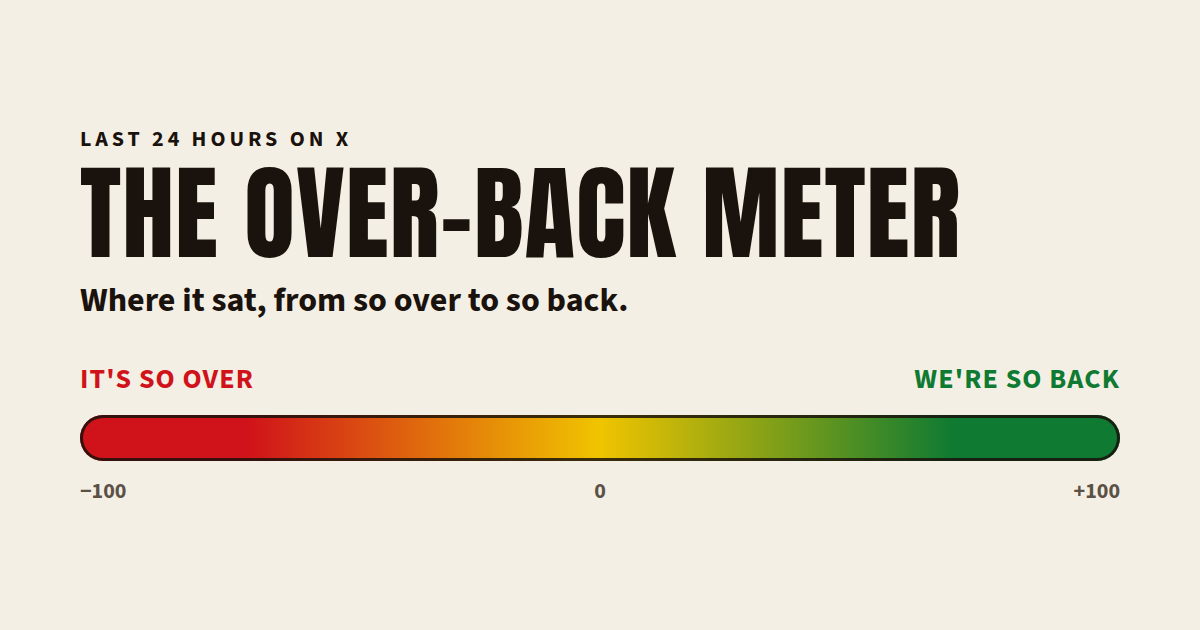
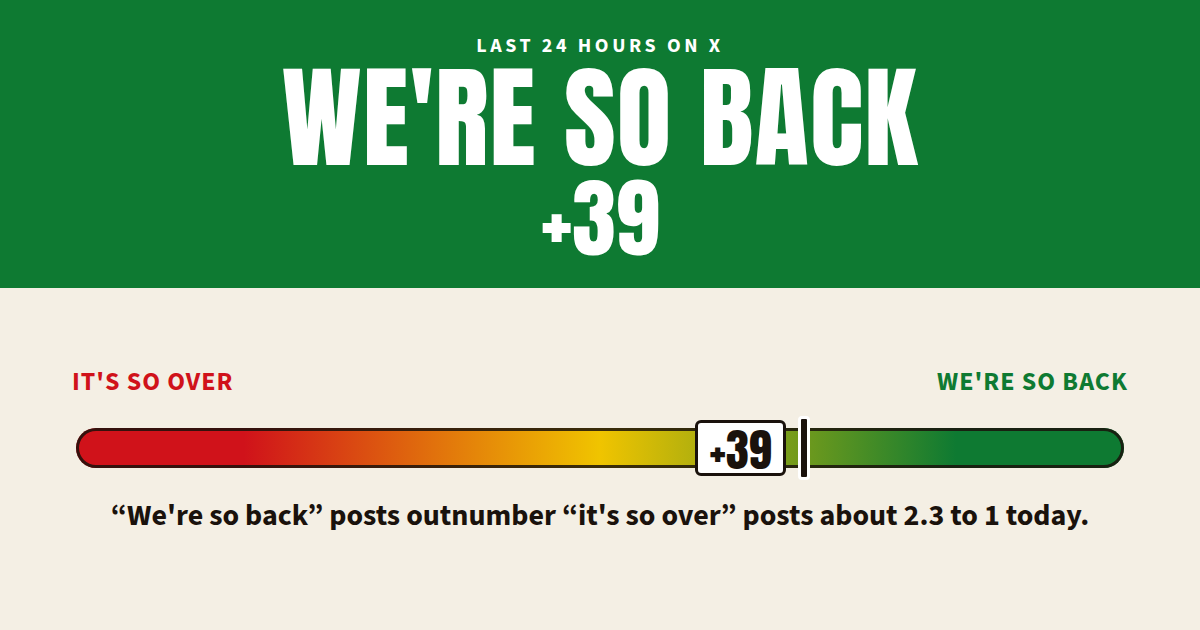
Show the day's score on the social preview
Link crawlers do not run the page, so the verdict and score are drawn into og.png and the Open Graph title. npm run preview refreshes both from the newest day in data.json.

diff --git a/scripts/preview.js b/scripts/preview.js
@@ -1,0 +1,200 @@
+/**
+ * Write the social preview from the newest day in data.json.
+ * Link crawlers do not run the page, so the score has to live in the
+ * tags and in og.png. Run this after appending a day.
+ */
+
+import { spawn } from "node:child_process";
+import { readFile, writeFile } from "node:fs/promises";
+import { tmpdir } from "node:os";
+import path from "node:path";
+import { fileURLToPath } from "node:url";
+import { formatScore, markerPercent, sentenceFor, verdictFor } from "./meter.js";
+
+const root = path.resolve(path.dirname(fileURLToPath(import.meta.url)), "..");
+const SITE = "https://timjonez.github.io/over-back-meter/";
+const IMAGE = `${SITE}og.png`;
+const START = "<!-- social-preview -->";
+const END = "<!-- /social-preview -->";
+
+const TONES = {
+  over: { bg: "#d0121a", fg: "#ffffff", theme: "#d0121a" },
+  back: { bg: "#0e7a32", fg: "#ffffff", theme: "#0e7a32" },
+  mid: { bg: "#f0c400", fg: "#1a120c", theme: "#f0c400" },
+};
+
+export function latestDay(data) {
+  if (!Array.isArray(data?.days) || data.days.length === 0) {
+    throw new Error("data.json has no days.");
+  }
+  return data.days.reduce((newest, day) => (day.date > newest.date ? day : newest));
+}
+
+export function previewCopy(day) {
+  const verdict = verdictFor(day.score);
+  const score = formatScore(day.score);
+  const title = `${verdict.label} (${score})`;
+  const description =
+    Number.isInteger(day.over) && Number.isInteger(day.back)
+      ? sentenceFor(day.back, day.over)
+      : "Exact phrase counts were not recorded for this day.";
+  return {
+    verdict,
+    score,
+    title,
+    description,
+    alt: `${verdict.label}, ${score}. ${description}`,
+    percent: markerPercent(day.score),
+    tone: TONES[verdict.tone],
+  };
+}
+
+export function socialBlock(copy) {
+  const title = esc(copy.title);
+  const description = esc(copy.description);
+  const alt = esc(copy.alt);
+  return `${START}
+  <meta name="theme-color" content="${copy.tone.theme}">
+  <meta property="og:type" content="website">
+  <meta property="og:site_name" content="The Over–Back Meter">
+  <meta property="og:locale" content="en_US">
+  <meta property="og:url" content="${SITE}">
+  <meta property="og:title" content="${title}">
+  <meta property="og:description" content="${description}">
+  <meta property="og:image" content="${IMAGE}">
+  <meta property="og:image:type" content="image/png">
+  <meta property="og:image:width" content="1200">
+  <meta property="og:image:height" content="630">
+  <meta property="og:image:alt" content="${alt}">
+  <meta name="twitter:card" content="summary_large_image">
+  <meta name="twitter:title" content="${title}">
+  <meta name="twitter:description" content="${description}">
+  <meta name="twitter:image" content="${IMAGE}">
+  <meta name="twitter:image:alt" content="${alt}">
+  ${END}`;
+}
+
+export function applySocialBlock(html, copy) {
+  const block = socialBlock(copy);
+  if (html.includes(START) && html.includes(END)) {
+    return html.replace(new RegExp(`${START}[\\s\\S]*?${END}`), block);
+  }
+  const canonical = `<link rel="canonical" href="${SITE}">`;
+  if (!html.includes(canonical)) {
+    throw new Error("index.html has no social-preview markers and no canonical link.");
+  }
+  return html.replace(canonical, `${canonical}\n  ${block}`);
+}
+
+function cardHtml(copy) {
+  const flip = copy.percent >= 50 ? " flip" : "";
+  return `<!DOCTYPE html>
+<html lang="en">
+<head>
+  <meta charset="utf-8">
+  <link rel="preconnect" href="https://fonts.googleapis.com">
+  <link rel="preconnect" href="https://fonts.gstatic.com" crossorigin>
+  <link href="https://fonts.googleapis.com/css2?family=Anton&family=Source+Sans+3:wght@600;700&display=swap" rel="stylesheet">
+  <style>
+    html, body { margin: 0; width: 1200px; height: 630px; overflow: hidden; background: #f4efe4; color: #1a120c; }
+    body { display: flex; flex-direction: column; font-family: "Source Sans 3", "Segoe UI", sans-serif; }
+    header { background: ${copy.tone.bg}; color: ${copy.tone.fg}; text-align: center; padding: 32px 48px 26px; }
+    .kicker { margin: 0; font-size: 20px; font-weight: 700; letter-spacing: 0.18em; text-transform: uppercase; }
+    h1 { margin: 10px 0 0; font-family: Anton, Impact, "Arial Black", sans-serif; font-size: 112px; font-weight: 400; line-height: 0.86; letter-spacing: 0.01em; }
+    .score { margin: 8px 0 0; font-family: Anton, Impact, "Arial Black", sans-serif; font-size: 88px; line-height: 1; }
+    .meter { flex: 1; display: flex; flex-direction: column; justify-content: center; padding: 8px 72px 28px; }
+    .ends { display: flex; justify-content: space-between; font-size: 26px; font-weight: 800; letter-spacing: 0.04em; }
+    .over { color: #d0121a; }
+    .back { color: #0e7a32; }
+    .track { position: relative; height: 40px; margin: 28px 4px 0; border-radius: 999px; background: linear-gradient(90deg, #d0121a 0%, #d0121a 16%, #f0c400 50%, #0e7a32 84%, #0e7a32 100%); box-shadow: inset 0 0 0 3px rgba(26, 18, 12, 0.85); }
+    .marker { position: absolute; top: 50%; left: ${copy.percent}%; width: 0; height: 0; }
+    .stem { position: absolute; width: 12px; height: 64px; background: #1a120c; border: 3px solid #fff; border-radius: 4px; transform: translate(-50%, -50%); box-sizing: border-box; }
+    .chip { position: absolute; top: 0; transform: translateY(-50%); background: #fff; color: #1a120c; border: 3px solid #1a120c; border-radius: 6px; font-family: Anton, Impact, sans-serif; font-size: 46px; line-height: 1; padding: 4px 12px 0; white-space: nowrap; }
+    .marker.flip .chip { right: 18px; }
+    .marker:not(.flip) .chip { left: 18px; }
+    .sentence { margin: 28px 0 0; text-align: center; font-size: 30px; font-weight: 700; line-height: 1.3; }
+  </style>
+</head>
+<body>
+  <header>
+    <p class="kicker">Last 24 hours on X</p>
+    <h1>${esc(copy.verdict.label)}</h1>
+    <p class="score">${esc(copy.score)}</p>
+  </header>
+  <section class="meter">
+    <div class="ends"><span class="over">IT'S SO OVER</span><span class="back">WE'RE SO BACK</span></div>
+    <div class="track"><div class="marker${flip}"><span class="stem"></span><span class="chip">${esc(copy.score)}</span></div></div>
+    <p class="sentence">${esc(copy.description)}</p>
+  </section>
+</body>
+</html>`;
+}
+
+function esc(value) {
+  return String(value)
+    .replaceAll("&", "&amp;")
+    .replaceAll("<", "&lt;")
+    .replaceAll(">", "&gt;")
+    .replaceAll('"', "&quot;");
+}
+
+async function writePreview() {
+  const data = JSON.parse(await readFile(path.join(root, "data.json"), "utf8"));
+  const copy = previewCopy(latestDay(data));
+  const indexPath = path.join(root, "index.html");
+  const html = await readFile(indexPath, "utf8");
+  await writeFile(indexPath, applySocialBlock(html, copy));
+
+  const cardPath = path.join(tmpdir(), "over-back-og.html");
+  const imagePath = path.join(root, "og.png");
+  await writeFile(cardPath, cardHtml(copy));
+  const chrome = process.env.CHROME_PATH || "google-chrome";
+  await run(chrome, [
+    "--headless=new",
+    "--disable-gpu",
+    "--no-sandbox",
+    "--disable-dev-shm-usage",
+    "--force-device-scale-factor=1",
+    "--hide-scrollbars",
+    `--user-data-dir=${path.join(tmpdir(), "over-back-chrome")}`,
+    "--virtual-time-budget=12000",
+    "--timeout=15000",
+    "--window-size=1200,630",
+    `--screenshot=${imagePath}`,
+    `file://${cardPath}`,
+  ]);
+  const png = await readFile(imagePath);
+  const width = png.readUInt32BE(16);
+  const height = png.readUInt32BE(20);
+  if (png[0] !== 0x89 || width !== 1200 || height !== 630) {
+    throw new Error(`og.png should be a 1200x630 PNG, got ${width}x${height}.`);
+  }
+  console.log(`${copy.title}`);
+  console.log(copy.description);
+}
+
+function run(command, args) {
+  return new Promise((resolve, reject) => {
+    const child = spawn(command, args, { stdio: "ignore" });
+    const timer = setTimeout(() => {
+      child.kill("SIGKILL");
+      resolve();
+    }, 20000);
+    child.on("error", (error) => {
+      clearTimeout(timer);
+      reject(error);
+    });
+    child.on("exit", () => {
+      clearTimeout(timer);
+      resolve();
+    });
+  });
+}
+
+const isMain = process.argv[1] && path.resolve(process.argv[1]) === fileURLToPath(import.meta.url);
+if (isMain) {
+  writePreview().catch((error) => {
+    console.error(error.message);
+    process.exit(1);
+  });
+}

diff --git a/index.html b/index.html
@@ -4,25 +4,27 @@
   <meta charset="utf-8">
   <meta name="viewport" content="width=device-width, initial-scale=1">
   <meta name="description" content="Where X sat in the last 24 hours, from it's so over to we're so back.">
-  <meta name="theme-color" content="#1a120c">
   <meta http-equiv="Cache-Control" content="no-cache">
   <link rel="canonical" href="https://timjonez.github.io/over-back-meter/">
+  <!-- social-preview -->
+  <meta name="theme-color" content="#0e7a32">
   <meta property="og:type" content="website">
   <meta property="og:site_name" content="The Over–Back Meter">
   <meta property="og:locale" content="en_US">
   <meta property="og:url" content="https://timjonez.github.io/over-back-meter/">
-  <meta property="og:title" content="The Over–Back Meter">
-  <meta property="og:description" content="Where X sat in the last 24 hours, from it's so over to we're so back.">
+  <meta property="og:title" content="WE'RE SO BACK (+39)">
+  <meta property="og:description" content="“We're so back” posts outnumber “it's so over” posts about 2.3 to 1 today.">
   <meta property="og:image" content="https://timjonez.github.io/over-back-meter/og.png">
   <meta property="og:image:type" content="image/png">
   <meta property="og:image:width" content="1200">
   <meta property="og:image:height" content="630">
-  <meta property="og:image:alt" content="The Over–Back Meter: a bar from it's so over to we're so back.">
+  <meta property="og:image:alt" content="WE'RE SO BACK, +39. “We're so back” posts outnumber “it's so over” posts about 2.3 to 1 today.">
   <meta name="twitter:card" content="summary_large_image">
-  <meta name="twitter:title" content="The Over–Back Meter">
-  <meta name="twitter:description" content="Where X sat in the last 24 hours, from it's so over to we're so back.">
+  <meta name="twitter:title" content="WE'RE SO BACK (+39)">
+  <meta name="twitter:description" content="“We're so back” posts outnumber “it's so over” posts about 2.3 to 1 today.">
   <meta name="twitter:image" content="https://timjonez.github.io/over-back-meter/og.png">
-  <meta name="twitter:image:alt" content="The Over–Back Meter: a bar from it's so over to we're so back.">
+  <meta name="twitter:image:alt" content="WE'RE SO BACK, +39. “We're so back” posts outnumber “it's so over” posts about 2.3 to 1 today.">
+  <!-- /social-preview -->
   <title>The Over–Back Meter</title>
   <link rel="icon" href="favicon.svg" type="image/svg+xml">
   <link rel="preconnect" href="https://fonts.googleapis.com">

diff --git a/scripts/site.test.js b/scripts/site.test.js
@@ -19,7 +19,9 @@ test("the page is static and reads only data.json", async () => {
 
   assert.match(html, /IT'S SO OVER/);
   assert.match(html, /WE'RE SO BACK/);
-  assert.match(html, /property="og:title" content="The Over–Back Meter"/);
+  assert.match(html, /property="og:title" content="WE'RE SO BACK \(\+39\)"/);
+  assert.match(html, /property="og:description" content="“We're so back” posts outnumber “it's so over” posts about 2\.3 to 1 today\."/);
+  assert.match(html, /name="twitter:title" content="WE'RE SO BACK \(\+39\)"/);
   assert.match(html, /property="og:image" content="https:\/\/timjonez\.github\.io\/over-back-meter\/og\.png"/);
   assert.match(html, /property="og:image:width" content="1200"/);
   assert.match(html, /property="og:image:height" content="630"/);

diff --git a/README.md b/README.md
@@ -17,14 +17,21 @@ Turn on GitHub Pages once. Repo → Settings → Pages → Build and deployment 
 
 There is a `.nojekyll` file so Pages serves the files as they are. After the first build, the site is at [https://timjonez.github.io/over-back-meter/](https://timjonez.github.io/over-back-meter/).
 
-A pull request that only changes `data.json` updates the site when it merges to `master`. This repo does not call the X API, and it has no token and no scheduled workflow.
+A pull request that changes `data.json` updates the reading when it merges to `master`. Link previews do not run the page, so the share card is a snapshot of the newest score. Refresh it with the preview script before you open the pull request. This repo does not call the X API, and it has no token and no scheduled workflow.
 
 ## How to add a day
 
 1. Open `data.json`.
-2. Append one object to the end of `days`. Leave every older object alone. Do not edit `index.html`, `app.js`, or any other file.
+2. Append one object to the end of `days`. Leave every older object alone.
 3. Keep the array in date order. The page uses the newest `date` as the current reading even if the array is out of order, but a sorted file keeps the diff to the one new object.
-4. Open a pull request whose only change is `data.json`.
+4. Refresh the share card so the score in the preview matches that day:
+
+```bash
+npm run preview
+```
+
+That rewrites the social tags in `index.html` and replaces `og.png`. It needs Chrome. The on-page reading still comes only from `data.json`.
+5. Open a pull request with `data.json`, `index.html`, and `og.png`.
 
 Copy this and fill it in:
 
